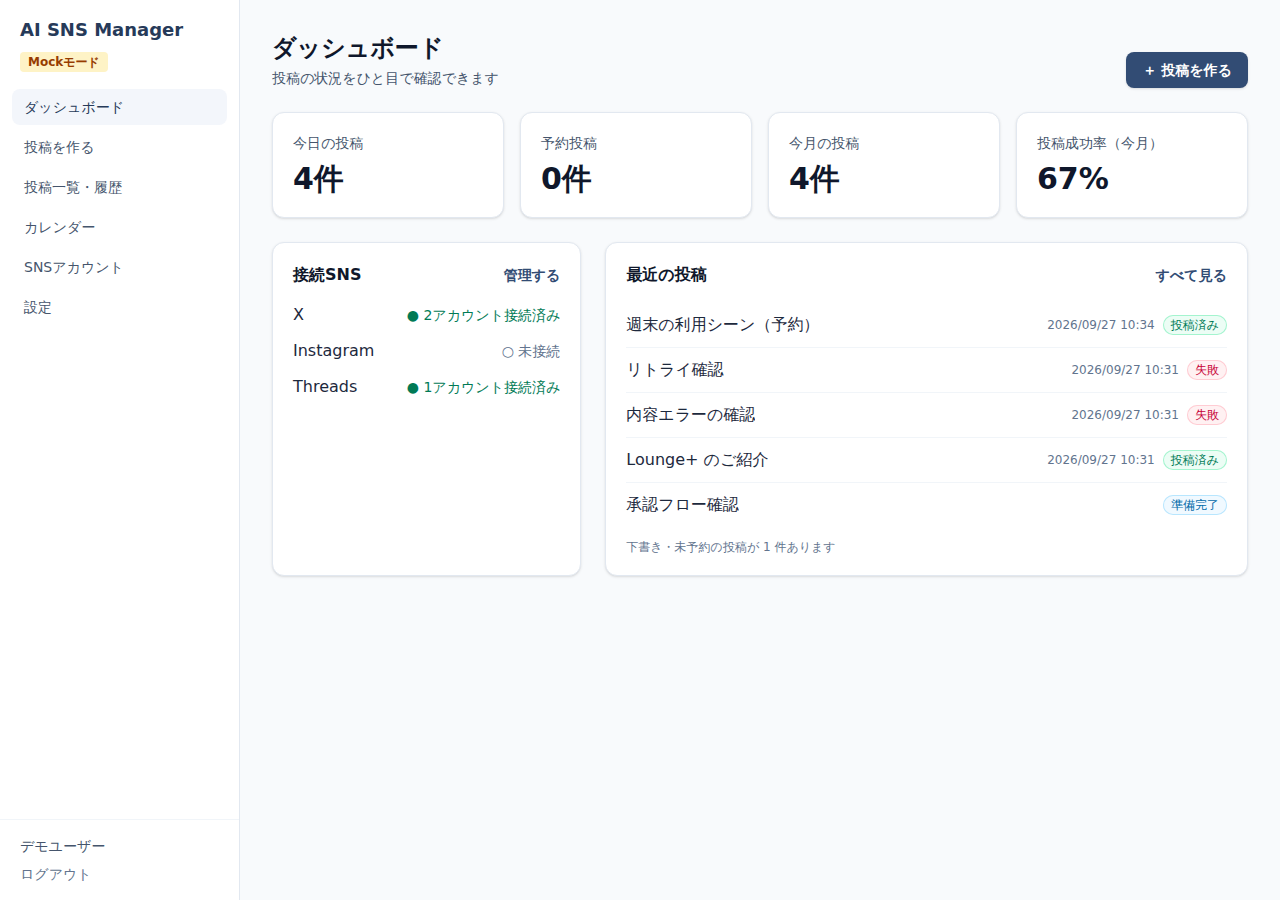
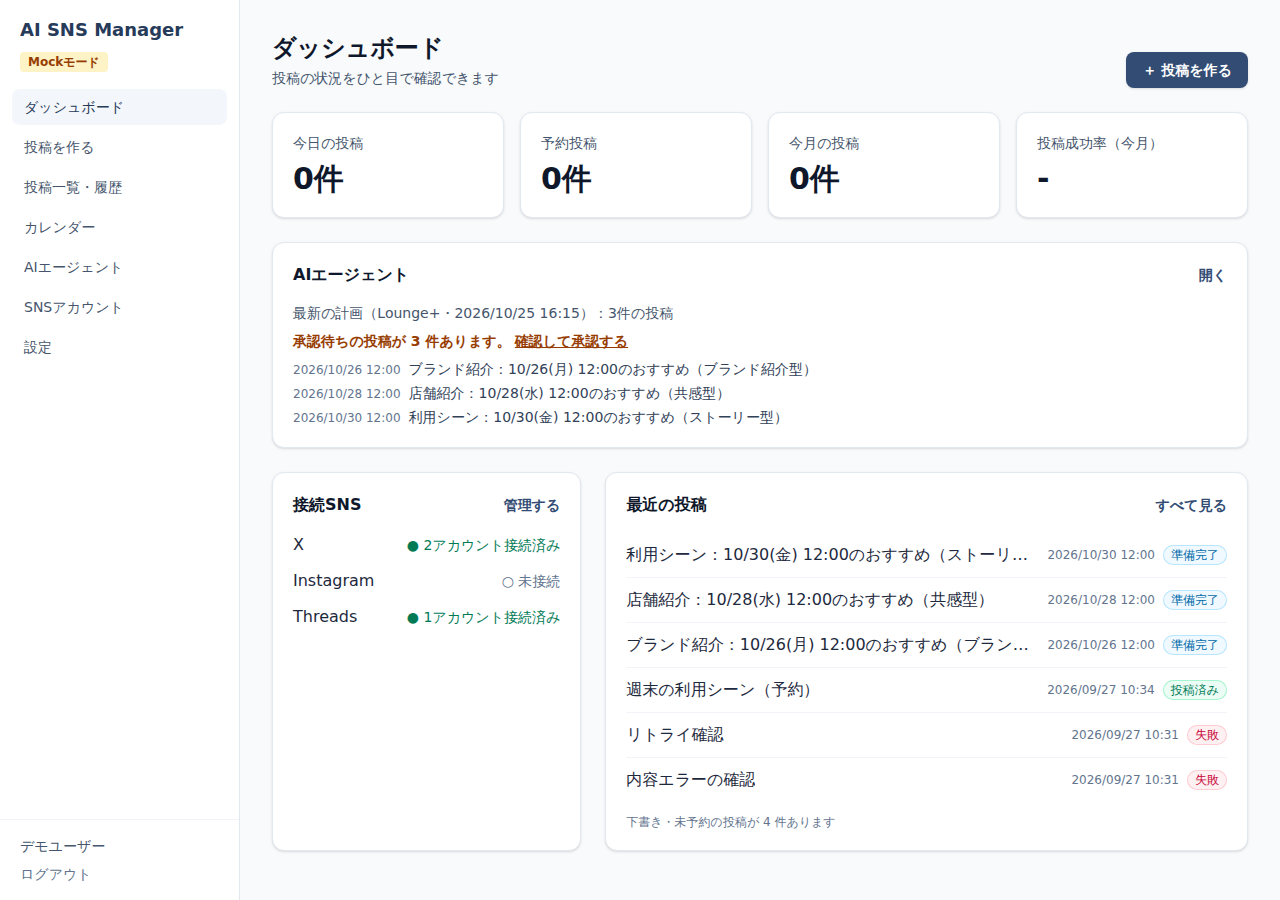
Phase 3 の説明を追加し、毎週の自動実行が手動実行と重なる問題を修正
- 修正：毎週の自動実行が、実行中の計画と重なって開始されることがあった
- AI エージェントの実行結果の説明文を、時間がたっても正しい表現に変更
- README・CLAUDE.md・TODO・docs（API・構成・DB・デプロイ）に画像/動画生成と AI エージェントを追加
- スクリーンショットを更新

Claude-Session: https://claude.ai/code/session_01KBhkvp7AxJzfnn6Fpjdrq9

diff --git a/lib/agent/agent-service.ts b/lib/agent/agent-service.ts
@@ -87,6 +87,12 @@ export async function startAgentRun(userId: string, brandId: string, trigger: Ag
 export async function startWeeklyRun(configId: string): Promise<string | null> {
   const config = await prisma.agentConfig.findUnique({ where: { id: configId } });
   if (!config || !config.weeklyEnabled) return null;
+  // 手動の実行と重ならないようにする
+  const running = await prisma.agentRun.findFirst({ where: { brandId: config.brandId, status: { in: ["QUEUED", "RUNNING"] } } });
+  if (running) {
+    logger.info("agent.weekly_skipped", { configId, runningRunId: running.id });
+    return null;
+  }
   const run = await prisma.agentRun.create({ data: { userId: config.userId, brandId: config.brandId, trigger: "SCHEDULED" } });
   return run.id;
 }
@@ -212,7 +218,7 @@ export async function executeAgentRun(runId: string, now: Date = new Date()): Pr
     const mode = user.approvalMode === "AUTO" ? "完全自動モードのため、承認なしで予約します" : "内容を確認して承認すると予約されます";
     const summary = [
       `${slotLabel(slots[0])}〜${slotLabel(slots[slots.length - 1])}の投稿を${created.length}件作りました。${mode}。`,
-      ...(needsImage ? ["画像は生成中です（できあがると自動で添付されます）。"] : []),
+      ...(needsImage ? ["画像もAIで作成し、できあがった投稿から自動で添付します。"] : []),
       ...(problems.length > 0 ? [`確認が必要な点：${problems.join(" / ")}`] : []),
     ].join("\n");
     await prisma.agentRun.update({ where: { id: run.id }, data: { status: "COMPLETED", summary, finishedAt: new Date() } });

diff --git a/tests/integration/agent-flow.test.ts b/tests/integration/agent-flow.test.ts
@@ -208,6 +208,9 @@ describe.skipIf(!hasTestDatabase)("AI Agent・画像生成（統合）", async (
     await agent.saveAgentConfig(userId, brandId, config());
     await agent.startAgentRun(userId, brandId);
     await expect(agent.startAgentRun(userId, brandId)).rejects.toMatchObject({ code: "AGENT_RUNNING" });
+    // 毎週の自動実行も、実行中なら重ねて開始しない
+    const saved = await agent.saveAgentConfig(userId, brandId, config({ weeklyEnabled: true }));
+    expect(await agent.startWeeklyRun(saved.id)).toBeNull();
   });
 
   it("画像生成：依頼 → AI がプロンプトを作る → 生成 → 完成", async () => {

diff --git a/docs/architecture.md b/docs/architecture.md
@@ -87,7 +87,7 @@ lib/
 
 ### 4. Queue & Worker
 
-BullMQ (Redis) で予約投稿を管理。Worker プロセスが定時に `publishPostPlatform()` を実行。
+BullMQ (Redis) で予約投稿・画像/動画生成・AI Agent を管理する。Worker（`workers/`）が各キューを処理する（詳細は「Worker の構成」）。
 
 ### 5. Database (Prisma + PostgreSQL)
 
@@ -142,6 +142,8 @@ lib/ai/
 interface AIProvider {
   readonly name: string;
   generate(request: GenerateRequest): Promise<GenerateResult>;
+  mediaPrompt(request: MediaPromptRequest): Promise<MediaPromptResult>; // 画像・動画の生成プロンプト
+  planWeek(request: PlanRequest): Promise<PlanResult>; // AI Agent の投稿テーマ計画
 }
 ```
 
@@ -180,6 +182,62 @@ interface AIProvider {
 - 案は保存しない。`POST /api/ai/drafts` は結果を返すだけ
 - 投稿フォームが採用した案を `POST /api/posts` に `aiGenerated: { model, style }` 付きで送ると、`Post.aiGenerated = true` と `AI_GENERATED` ログが残る
 - 承認モード `AI_ONLY` では AI 由来の投稿が承認待ちになる（`initialApprovalStatus()`）
+
+## 画像・動画生成
+
+```
+lib/media/
+  types.ts          ← MediaGenerationProvider / AspectRatio
+  registry.ts       ← getMediaProvider(): fal / mock の選択
+  fal-provider.ts   ← FalAIProvider（fal.ai）
+  mock-provider.ts  ← MockMediaProvider
+  media-service.ts  ← requestMedia() / processMedia() / 投稿への添付
+  errors.ts         ← MediaGenerationError（ユーザー向けの文を持つ）
+```
+
+- **FalAIProvider**（`FAL_KEY` が必要）: 画像は `fal-ai/flux-1/schnell`（`FAL_IMAGE_MODEL` で変更）、動画は `fal-ai/kling-video/v2.5-turbo/pro/text-to-video`（`FAL_VIDEO_MODEL`）。動画は10秒。返された公開 URL をそのまま保存する。HTTP 401/403 → AUTH、429 → RATE_LIMIT、400/422 → REJECTED、その他 → UNAVAILABLE
+- **MockMediaProvider**: 画像はプレースホルダー画像、動画は架空の URL（再生できない）
+- **registry**: `MEDIA_PROVIDER_MODE`（`fal` / `mock`）。未指定なら `FAL_KEY` があれば fal、なければ mock
+- **生成プロンプトは AI が作る**: `AIProvider.mediaPrompt()` が `prompts/image/system.md` または `prompts/video/system.md` を使い、英語のプロンプトを作る（動画は日本語の構成メモ `script` も）。作成済みのプロンプトは再試行時に再利用する
+
+流れ:
+1. `POST /api/media/generate` が `Media`（PENDING）を作り、`media-generate` キューに登録する（jobId `media_{id}`、最大2回試行、失敗から30秒後に再試行）
+2. media worker の `processMedia()` が GENERATING にし、プロンプトを作って生成し、READY で `url` を保存する
+3. 再試行対象（RATE_LIMIT / UNAVAILABLE）は PENDING に戻す。それ以外は FAILED と `errorMessage` を残す
+4. READY かつ `postId` があれば `onMediaReadyForPost()`：DRAFT の投稿先のうち、その種類を投稿できるものに `mediaUrls` / `mediaType` を設定し、`POST_UPDATED` ログを残す
+
+## SNS への画像・動画投稿
+
+`lib/social/media.ts` の `primaryMedia()` が1投稿1メディアを決める（`mediaType` が無ければ URL の拡張子で推定）。各 Adapter が呼ぶ API（ファイル冒頭のコメントより）:
+
+- **X**（`x/x-adapter.ts`）: 画像は `POST /2/media/upload`。動画は `upload/initialize` → `upload/{id}/append`（4MB ずつ）→ `finalize` → `STATUS` で処理完了を待つ。投稿は `POST /2/tweets` の `media.media_ids`
+- **Threads**（`threads/threads-adapter.ts`）: `POST me/threads`（`media_type` = IMAGE / VIDEO、`image_url` / `video_url`）でコンテナを作る → `GET {id}?fields=status,error_message` で状態確認 → `POST me/threads_publish`
+- **Instagram**（`instagram/instagram-adapter.ts`）: 画像は `POST {ig-user-id}/media`（`image_url`）。動画は `media_type=REELS`（`video_url`）。`status_code` が FINISHED になるまで待ち、`POST {ig-user-id}/media_publish`。画像・動画が必須
+
+## AI Agent
+
+`lib/agent/`（`agent-service.ts` / `slots.ts` / `plan-check.ts`）が、ブランドごとに今後7日間の投稿を作る。**日時はコードで決め、AI はテーマ・型・画像のアイデアだけを決める。**
+
+1. 直近30件の投稿履歴と、今後の予定を読む
+2. `computeSlots()`: 1時間後から7日以内に `postsPerWeek` 件の枠を作る。`preferredWeekdays` の曜日を優先し、予定のある日は避け、間隔を均等にする（JST）
+3. `planWeek()` → `checkPlan()`: 枠の欠落・重複、型、投稿テーマの柱（登録済みか、偏りすぎていないか）を確認する。違反があれば指摘を付けて作り直す（計2回まで。`PLAN_ATTEMPTS`）。直らなければ run は FAILED
+4. 枠ごとに `generateDrafts()`（その枠の型で1案。品質チェック込み）→ `createPost()`（`aiGenerated` に model / style、投稿先は実行時の対象アカウント）→ `scheduledAt` / `agentRunId` / `contentPillar` を設定
+5. 画像：`generateImages` が true か Instagram が対象なら `requestMedia(IMAGE)`（Instagram を含むと 4:5、それ以外は 1:1、`postId` 付き）
+6. 承認：承認モードが `AUTO` なら、画像なしは作成直後に `schedulePost()`、画像ありは画像完成時に予約する（画像の生成に失敗した投稿は DRAFT のまま残る）。それ以外は承認待ち（PENDING）
+7. 結果を `AgentRun.summary` に書く。1件も作れなければ FAILED
+
+- **承認**：`approveAgentRun()`（`POST /api/agent/runs/{id}/approve`）が対象の投稿を計画日時で `schedulePost(approve: true)` する
+- **毎週の自動実行**：`AgentConfig.weeklyEnabled` が true のとき `upsertWeeklyAgent()` が `agent-run` キューに job scheduler（ID `agent-weekly-{configId}`、cron `m h * * 曜日`、`tz: Asia/Tokyo`）を登録する。発火すると `startWeeklyRun()` が `trigger = SCHEDULED` の AgentRun を作る。ai worker の起動時に `reconcileWeeklySchedules()` が DB の設定に合わせて登録し直す
+
+## Worker の構成
+
+`workers/index.ts`（`npm run worker`）は下の3つを1プロセスで起動する。各ファイルは `npm run worker:post` などで単独でも起動できる。`run.ts` が起動と終了（SIGINT / SIGTERM）を共通化する。
+
+| Worker | ファイル | キュー | 同時実行 | 役割 |
+|--------|----------|--------|----------|------|
+| post | `post-worker.ts` | `post-publish` | 5 | 予約投稿の実行（起動時に予約中の投稿を再登録） |
+| media | `media-worker.ts` | `media-generate` | 2 | 画像・動画の生成 |
+| ai | `ai-worker.ts` | `agent-run` | 1 | AI Agent の実行（手動と毎週） |
 
 ## Adapter パターン
 
@@ -340,8 +398,12 @@ ai-sns-manager/
         threads-adapter.ts    (Step 13)
     queue/
       post-queue.ts
+      jobs.ts           ← 画像・動画 / AI Agent のキュー
       retry.ts
       connection.ts
+    ai/                 ← 投稿案・計画・生成プロンプト（claude-provider / mock-provider）
+    media/              ← 画像・動画生成（fal-provider / mock-provider / media-service）
+    agent/              ← AI Agent（agent-service / slots / plan-check）
     encryption/
       crypto.ts
     logging/
@@ -357,7 +419,9 @@ ai-sns-manager/
       service-error.ts
       user-messages.ts
   workers/
-    post-worker.ts
+    index.ts            ← 3つの Worker を1プロセスで起動
+    post-worker.ts / media-worker.ts / ai-worker.ts
+    run.ts
   prisma/
     schema.prisma
     seed.ts

diff --git a/docs/api.md b/docs/api.md
@@ -29,7 +29,6 @@
 - `404 Not Found`: リソース未検出
 - `409 Conflict`: 状態遷移エラー (例: 投稿中は編集不可)
 - `500 Internal Server Error`: サーバーエラー (code: `INTERNAL_ERROR`)
-- `501 Not Implemented`: 未実装機能（画像・動画生成。Phase 3）
 
 ---
 
@@ -139,6 +138,8 @@
   ]
 }
 ```
+
+`targets[].mediaType`（任意）は `"IMAGE"` / `"VIDEO"` / `null`。`mediaUrls` が空のときは保存されず `null` になる。PATCH も同じ形式。
 
 `aiGenerated`（任意）は、`POST /api/ai/drafts` の案を採用したときに `{ "model": "claude-sonnet-5-5", "style": "howto" }` を渡す（`model` 100字以内、`style` 50字以内。型の列挙は検証しない）。指定すると `Post.aiGenerated = true` になり、作成時に `AI_GENERATED` の PostLog（metadata に model / style）が残る。省略・`null` は手動作成。承認モードが `AI_ONLY` のとき、AI 由来の投稿は承認待ち（PENDING）になる。
 
@@ -597,13 +598,68 @@ SNS アカウント切断。
 
 ---
 
-## メディア生成 API（Phase 3）
+## 画像・動画 API
+
+生成は Worker が行う（数十秒〜数分）。`POST` は `PENDING` の Media を返すので、`GET /api/media/{id}` で `status` を確認する。
 
 ### POST /api/media/generate
 
-テキストから画像を AI 生成。
+画像または動画の生成を登録する。**Response (202):** `{ "media": { "id": "...", "status": "PENDING", ... } }`
 
-**Response (501):** Not Implemented
+**Request:** `{ "type": "IMAGE", "idea": "店内の窓際で作業する人の後ろ姿", "aspectRatio": "4:5", "brandId": null, "postId": null }`
+
+- `type`: `IMAGE` / `VIDEO`。`aspectRatio`: `1:1`（既定）/ `4:5` / `9:16` / `16:9`
+- `idea`: 日本語のイメージ（1〜500字）。英語の生成プロンプトは AI が作り、`Media.prompt`（動画は `script` も）に保存する
+- `brandId` / `postId`: 任意。他人のものは 404。`postId` を指定すると、完成時に同じ投稿の、その種類を投稿できる DRAFT の投稿先に自動で添付される
+
+キューに登録できなければ 503（`QUEUE_UNAVAILABLE`）。生成の失敗は API のエラーではなく、`Media.status = FAILED` と `errorMessage` に残る。
+
+### GET /api/media
+
+最近できあがった（`status = READY`）画像・動画を最大12件。**Response (200):** `{ "media": [ ... ] }`
+
+### GET /api/media/{id}
+
+1件の状態と URL。**Response (200):** `{ "media": { "status": "READY", "url": "https://...", "prompt": "...", ... } }`。`status`: `PENDING` / `GENERATING` / `READY` / `FAILED`
+
+---
+
+## AI Agent API
+
+ブランドごとの設定と、今後7日間の投稿計画を作る Agent の API。計画の作成は Worker が行う。
+
+### GET /api/agent/config?brandId=…
+
+設定を取得（未設定なら `{ "config": null }`）。**PUT /api/agent/config?brandId=…** で保存する。`brandId` を省略すると 400。
+
+**Request（PUT）:** `{ "weeklyEnabled": true, "runWeekday": 1, "runTime": "09:00", "postsPerWeek": 3, "preferredWeekdays": [1, 3, 5], "preferredTime": "12:00", "targetAccountIds": ["account123"], "generateImages": false }`
+
+- `runWeekday`（0=日〜6=土）と `runTime`（HH:mm）は毎週の自動実行の日時（日本時間）。`weeklyEnabled: false` にすると登録を解除する
+- `postsPerWeek`: 1〜7。`preferredWeekdays` / `preferredTime`: 投稿枠の優先曜日・時刻
+- `targetAccountIds`: 自分の SNS アカウントのみ（他人のものは 404）。最大20件
+- `generateImages`: `true` なら投稿ごとに画像を生成する。Instagram を投稿先に含む場合は、この値にかかわらず生成する
+
+**Response (200):** `{ "config": { ... } }`（`AgentConfig` のフィールド）
+
+### POST /api/agent/run
+
+`{ "brandId": "brand123" }` で、今後7日間の投稿を作る実行を登録する。**Response (202):** `{ "run": { "id": "...", "status": "QUEUED", ... } }`
+
+- 投稿先が未設定なら 400（`AGENT_NOT_CONFIGURED`）。同じブランドが実行中なら 409（`AGENT_RUNNING`）
+
+### GET /api/agent/runs?brandId=…
+
+実行記録の一覧（新しい順、最大10件）。`brandId` 省略時はすべてのブランド。**Response (200):** `{ "runs": [ ... ] }`（各 run は `brand` と `posts` を含む）
+
+### GET /api/agent/runs/{id}
+
+1件の実行記録。`plan`（投稿枠ごとのテーマ・型・理由）と `summary` を含む。**Response (200):** `{ "run": { ... } }`
+
+### POST /api/agent/runs/{id}/approve
+
+実行で作られた投稿をまとめて承認し、計画した日時で予約する。**Response (200):** `{ "results": [ { "postId": "...", "title": "...", "ok": true }, { "postId": "...", "title": "...", "ok": false, "message": "計画した日時を過ぎています…" } ] }`
+
+対象は `DRAFT` / `READY` の投稿のみ。承認モードが `AUTO` の投稿は作成時に予約済みのため対象外。
 
 ---
 
@@ -619,7 +675,8 @@ SNS アカウント切断。
 | QUEUE_UNAVAILABLE | ジョブキュー利用不可 | 503 |
 | NOT_FOUND | リソース未検出 | 404 |
 | INTERNAL_ERROR | サーバーエラー | 500 |
-| NOT_IMPLEMENTED | 未実装 | 501 |
+| AGENT_NOT_CONFIGURED | AI Agent の投稿先が未設定 | 400 |
+| AGENT_RUNNING | 同じブランドの計画を作成中 | 409 |
 | AI_NOT_CONFIGURED | AI の APIキーが未設定 | 503 |
 | AI_AUTH | AI の APIキーが不正、または権限なし | 502 |
 | AI_RATE_LIMIT | AI のレート制限 | 429 |

diff --git a/TODO.md b/TODO.md
@@ -24,8 +24,18 @@
 - [ ] **本物の APIキーで生成を試し、文章の質を見てプロンプトを調整する**（開発環境ではキーがなく未確認）
 - [ ] 生成した案の保存（現在は画面を離れると消える。採用した案は投稿として保存される）
 
-## Phase 3 / 4
+## Phase 3：画像・動画生成と AI エージェント（完了）
 
-- [ ] 画像・動画生成（fal.ai Provider、Media モデル）
-- [ ] AI Agent・投稿カレンダー自動生成・完全自動モード
-- [ ] 分析・AI 分析・複数ブランドの本格対応
+- [x] 画像・動画生成（fal.ai）、Claude による生成プロンプト作成、Worker での非同期処理
+- [x] X・Instagram・Threads への画像・動画付き投稿
+- [x] AI エージェント（投稿枠の計算、テーマ計画、柱の偏りチェック、投稿文・画像の生成、まとめて承認）
+- [x] 毎週の自動実行、完全自動モード
+- [ ] **本物の FAL_KEY で画像・動画を生成し、品質と所要時間を確認する**
+- [ ] 生成した画像・動画の自前ストレージへの保存（fal.ai の URL の保存期間を確認したうえで判断）
+- [ ] パソコンからの画像・動画のアップロード
+
+## Phase 4
+
+- [ ] 分析（SNS から取得できる指標の取得）
+- [ ] AI 分析（反応の良いテーマ・時間帯を、根拠データと並べて表示）
+- [ ] 分析結果を AI エージェントの計画に反映
